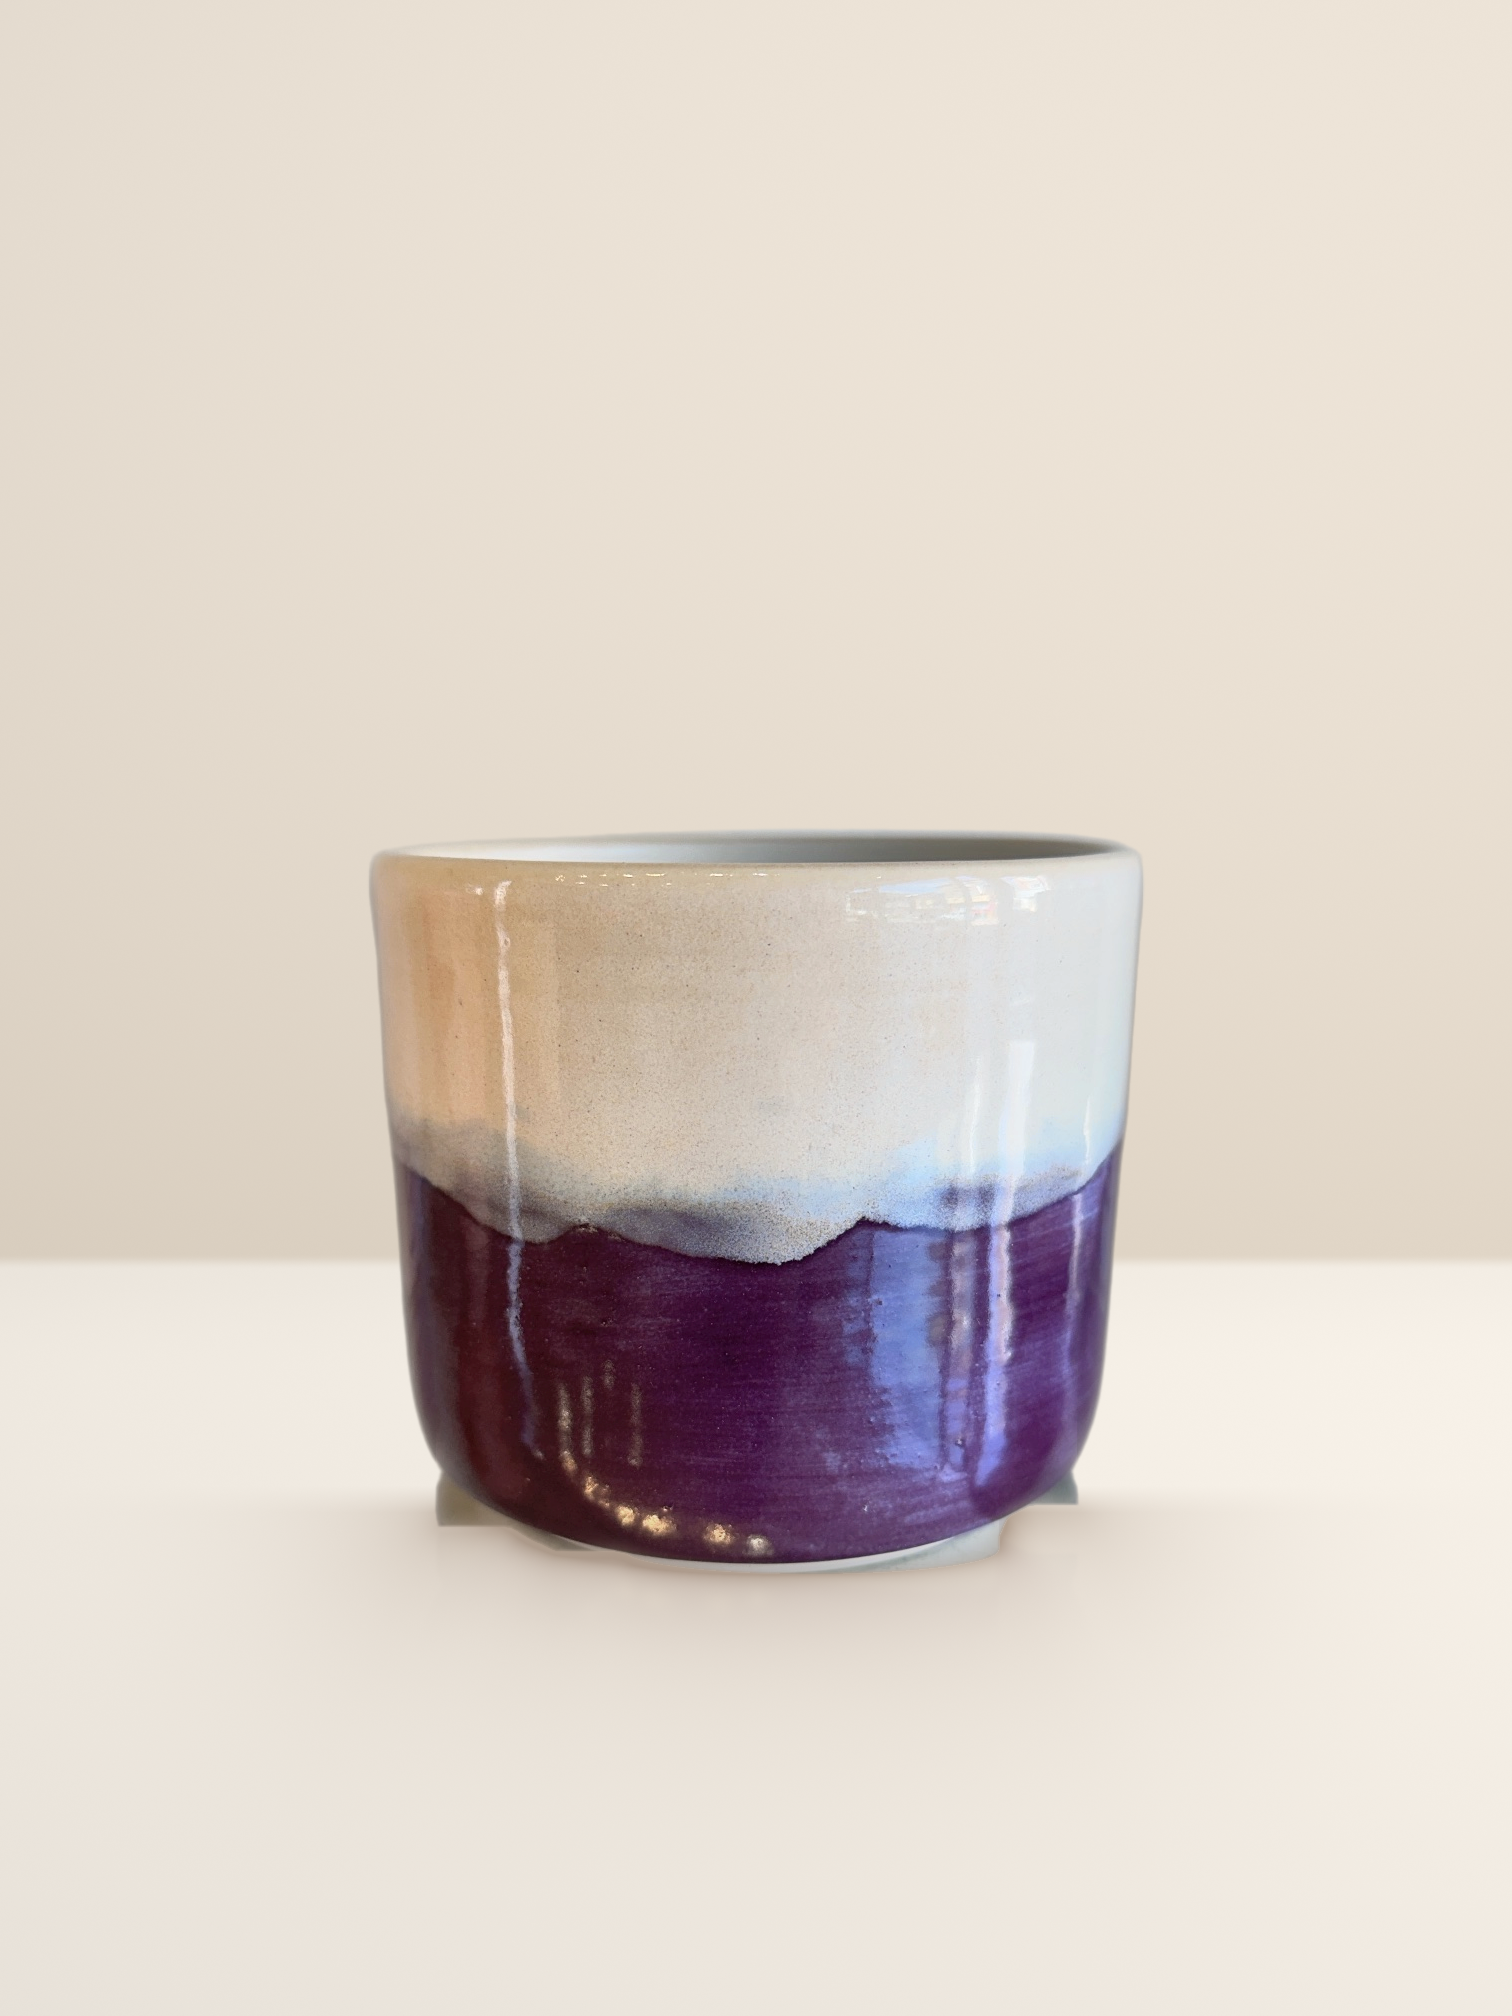
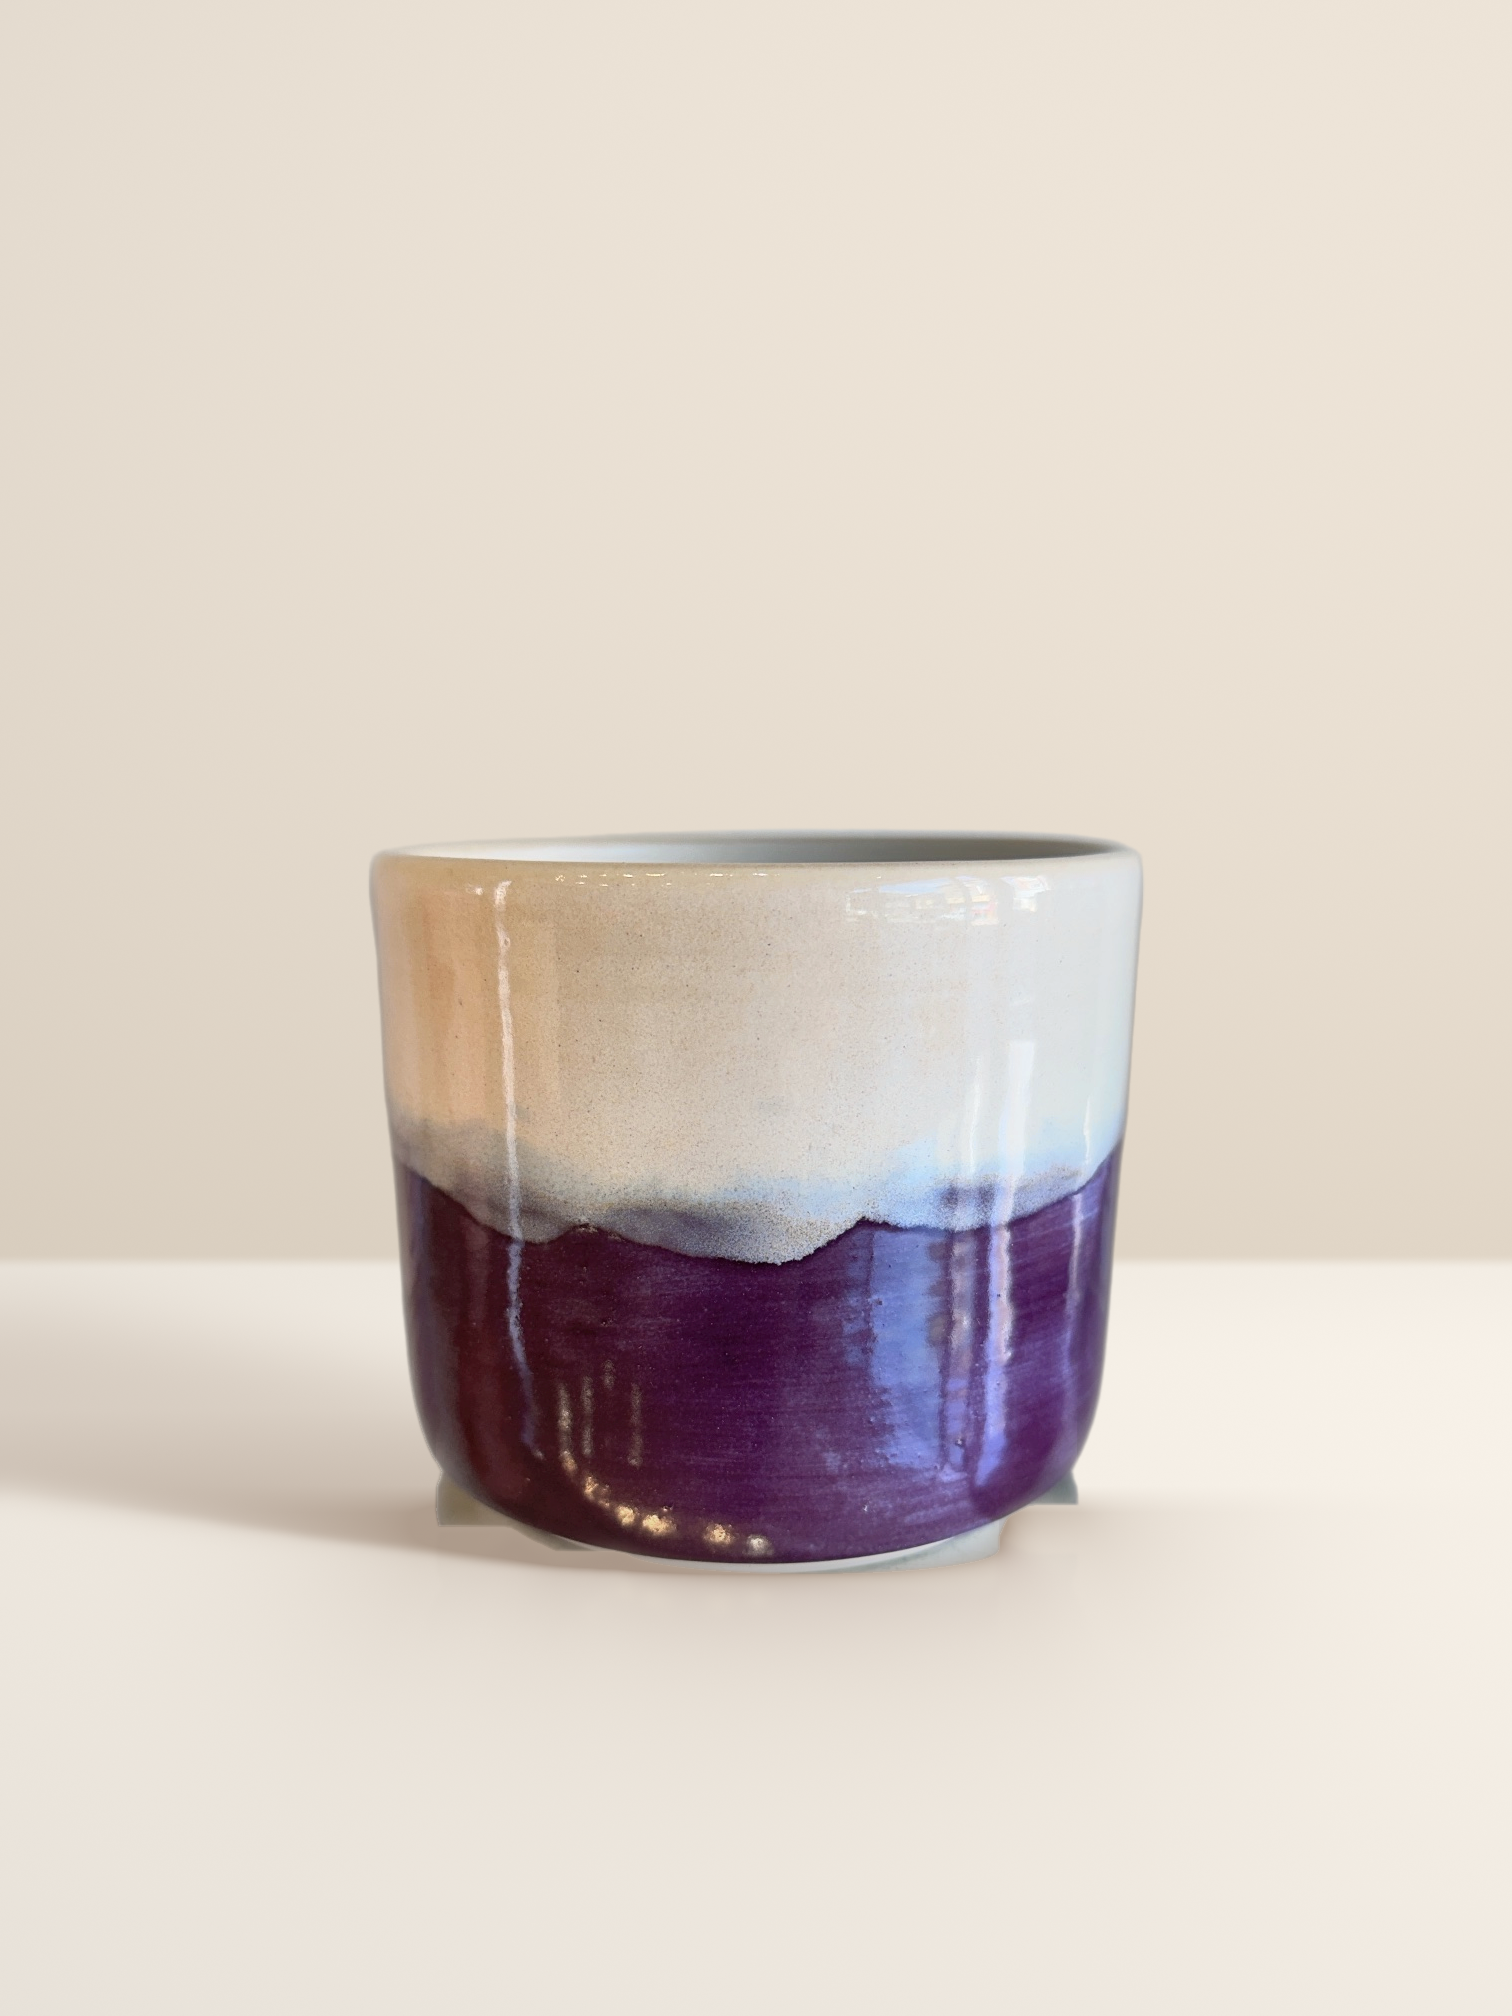
Diagonal cast shadow from the product's cross-sections
The cast shadow was a faint ellipse that read as no shadow at all. Now the
product is sliced by height and each cross-section (a circle seen as a
flattened ellipse) is pushed along the floor away from the light, so the
shadow becomes a diagonal band that follows the product's width profile,
like a real tabletop shot with side light. It is crisp near the foot and
blurs and fades with distance, spans the whole floor below the seam, and
is never drawn over the product. Fixed a sign error in the projection.
New controls: --cast-length, --cast-rise, --cast-blur, --cast-fade.
Catalog shots regenerated with light from the right.

Claude-Session: https://claude.ai/code/session_01WGwx9JVhJ7CYZxXMbtASsV

Changed region(s): [[0.0, 0.6562, 0.373, 0.7812]]

diff --git a/tools/catalog_shot.py b/tools/catalog_shot.py
@@ -10,8 +10,8 @@
      - 접촉 그림자: 굽 바닥 타원(제품 밑면 윤곽에서 추정)을 따라 맞닿는 부분이 가장
        진하고, 타원 밖으로 갈수록 타원형 그라디언트로 빠르게 옅어짐
      - 앰비언트 오클루전: 제품 실루엣 하단 윤곽에서의 거리로 계산한 넓고 옅은 그늘
-     - 드리운 그림자: 빛 반대쪽으로 길게 눕는 타원형 그라디언트, 멀어질수록
-       더 흐리고 옅어짐(조명 방향은 제품 하이라이트로 자동 추정 또는 지정)
+     - 드리운 그림자: 제품 실루엣을 빛 반대쪽 바닥에 사선으로 눕힌 그림자,
+       굽에서 멀어질수록 더 흐리고 옅어짐(조명 방향은 자동 추정 또는 --light)
      그림자 색은 회색이 아니라 바닥색을 따뜻하게 어둡게 한 색
   5) 제품 어울림(기본): 색 끼임 제거, 제품 하단 AO, 바닥 반사광, 라이트 랩, 윤곽 완화.
      형태·크기는 그대로(평행이동만). --keep-product 를 주면 제품 픽셀을 원본 그대로
@@ -70,11 +70,16 @@ def build_parser():
     g.add_argument("--ao-strength", type=float, default=0.32)
     g.add_argument("--ao-size", type=float, default=0.5,
                    help="앰비언트 오클루전 범위(굽 반지름 대비)")
-    g.add_argument("--cast-strength", type=float, default=0.3)
-    g.add_argument("--cast-length", type=float, default=0.9,
-                   help="드리운 그림자 길이(굽 반지름 대비)")
-    g.add_argument("--cast-blur", type=float, default=0.18,
-                   help="드리운 그림자 흐림(굽 반지름 대비)")
+    g.add_argument("--cast-strength", type=float, default=0.7,
+                   help="사선 그림자 진하기")
+    g.add_argument("--cast-length", type=float, default=1.25,
+                   help="사선 그림자가 옆으로 뻗는 길이(제품 높이 대비)")
+    g.add_argument("--cast-rise", type=float, default=0.22,
+                   help="사선 그림자가 뒤(화면 위쪽)로 올라가는 정도(제품 높이 대비)")
+    g.add_argument("--cast-blur", type=float, default=0.04,
+                   help="사선 그림자 흐림(제품 높이 대비, 멀어질수록 최대 1.2배)")
+    g.add_argument("--cast-fade", type=float, default=0.55,
+                   help="그림자 끝으로 갈수록 옅어지는 정도 0~1")
     g.add_argument("--opacity", type=float, default=1.0, help="그림자 전체 투명도 배율")
     g.add_argument("--shadow-tint", default="0.56,0.61,0.68",
                    help="그림자 색 = 바닥색 × 이 값 (B,G,R; 파랑을 더 줄이면 따뜻한 그늘)")
@@ -133,7 +138,7 @@ def backdrop(w, h, seam, contact_y, light_x, P):
 
 # ------------------------------------------------------------------ 그림자
 
-def shadow_map(alpha, light_x, P):
+def shadow_map(alpha, light_x, P, seam=None):
     """0~1 그림자 농도(곱하기 합성용). 바닥 영역에만 생긴다."""
     h, w = alpha.shape
     cx, cy, a, b, bot = studio.footprint(alpha)
@@ -155,19 +160,39 @@ def shadow_map(alpha, light_x, P):
     ao *= np.clip((yy - (cy - 2 * b)) / (b + 1), 0, 1)           # 몸통 옆 높은 곳은 0
     ao = cv2.GaussianBlur(ao.astype(np.float32), (0, 0), max(a * 0.03, 1))
 
-    # 3) 드리운 그림자 — 빛 반대쪽으로 길게, 멀어질수록 흐리고 옅게
-    dirx = -np.sign(light_x) if abs(light_x) > 0.08 else 0.0
-    L = a * P.cast_length
-    ccx = cx + dirx * L * 0.55
-    ra, rb_ = a + L * (0.55 if dirx else 0.25), b * (1.25 + 0.25 * P.cast_length)
-    re = np.sqrt(((xx - ccx) / ra) ** 2 + ((yy - (cy + b * 0.1)) / rb_) ** 2)
-    cast = np.clip(1 - re, 0, 1) ** 1.3
-    along = np.clip(((xx - cx) * (dirx if dirx else 0) + np.abs(yy - cy) * 0.2) / (L + 1), 0, 1)
-    cast *= (1 - 0.65 * along)
-    cast = cv2.GaussianBlur(cast.astype(np.float32), (0, 0), max(a * P.cast_blur, 1))
+    # 3) 드리운 그림자 — 제품이 바닥에 드리운 사선 그림자 (샘플 사진처럼)
+    #    제품을 높이별로 잘라 그 높이의 단면(원 → 원근으로 납작한 타원)을 빛 반대쪽
+    #    바닥으로 밀어 겹친다. 높이 t 인 단면은 옆으로 cast_length*t, 뒤로 cast_rise*t.
+    #    → 제품 폭의 변화(입구가 넓으면 그림자 끝도 넓게)를 따르는 사선 띠가 된다.
+    dirx = -np.sign(light_x) if abs(light_x) > 0.08 else -1.0
+    H = bot - studio.body_top(alpha)
+    kx, ky = P.cast_length * dirx, P.cast_rise
+    pr = float(np.clip(b / max(a, 1), 0.08, 0.6))                  # 원근(바닥 타원 납작함)
+    proj = np.zeros((h, w), np.float32)
+    top = int(bot - H)
+    for yr in range(bot, top - 1, -max(int(H / 80), 1)):
+        c = np.nonzero(sil[yr])[0]
+        if not len(c):
+            continue
+        t = bot - yr
+        hw = (c.max() - c.min()) / 2
+        ccx = (c.max() + c.min()) / 2 + kx * t
+        ccy = cy - ky * t
+        cv2.ellipse(proj, (int(round(ccx)), int(round(ccy))),
+                    (max(int(hw), 1), max(int(hw * pr), 1)), 0, 0, 360, 1.0, -1, cv2.LINE_AA)
+    dist = np.clip((bot - yy) / (ky * H + 1), 0, 1)                 # 0: 굽 근처 → 1: 그림자 끝
+    sig = [max(H * P.cast_blur * f, 1) for f in (0.15, 0.5, 1.2)]
+    bl = [cv2.GaussianBlur(proj, (0, 0), sg) for sg in sig]
+    k = dist * 2
+    cast = np.where(k < 1, bl[0] * (1 - k) + bl[1] * k, bl[1] * (2 - k) + bl[2] * (k - 1))
+    cast *= (1 - P.cast_fade * dist)
+    cast *= (1 - sil)                                               # 제품 위에는 그리지 않음
 
-    s = (P.contact_strength * contact + P.ao_strength * ao + P.cast_strength * cast)
-    s = np.clip(s * floor_zone * P.opacity, 0, 0.85)
+    # 사선 그림자는 바닥 전체(벽·바닥 경계 아래)에, 접촉·AO 는 굽 근처 바닥에만
+    wall_cut = 1.0 if seam is None else np.clip((yy - seam) / (h * 0.006) + 0.5, 0, 1)
+    s = (P.contact_strength * contact + P.ao_strength * ao) * floor_zone \
+        + P.cast_strength * cast * wall_cut
+    s = np.clip(s * P.opacity, 0, 0.85)
     return s
 
 
@@ -268,7 +293,7 @@ def main():
     seam = float(np.clip(bot - P.seam * H, h * 0.15, bot - 0.08 * H))
 
     bg = backdrop(w, h, seam, bot, light_x, P)
-    s = shadow_map(alpha, light_x, P)[..., None]
+    s = shadow_map(alpha, light_x, P, seam)[..., None]
     tint = np.array([float(v) for v in P.shadow_tint.split(",")], np.float32)
     bg = bg * (1 - s * (1 - tint))                                   # 곱하기 합성
     if P.reflect > 0:
